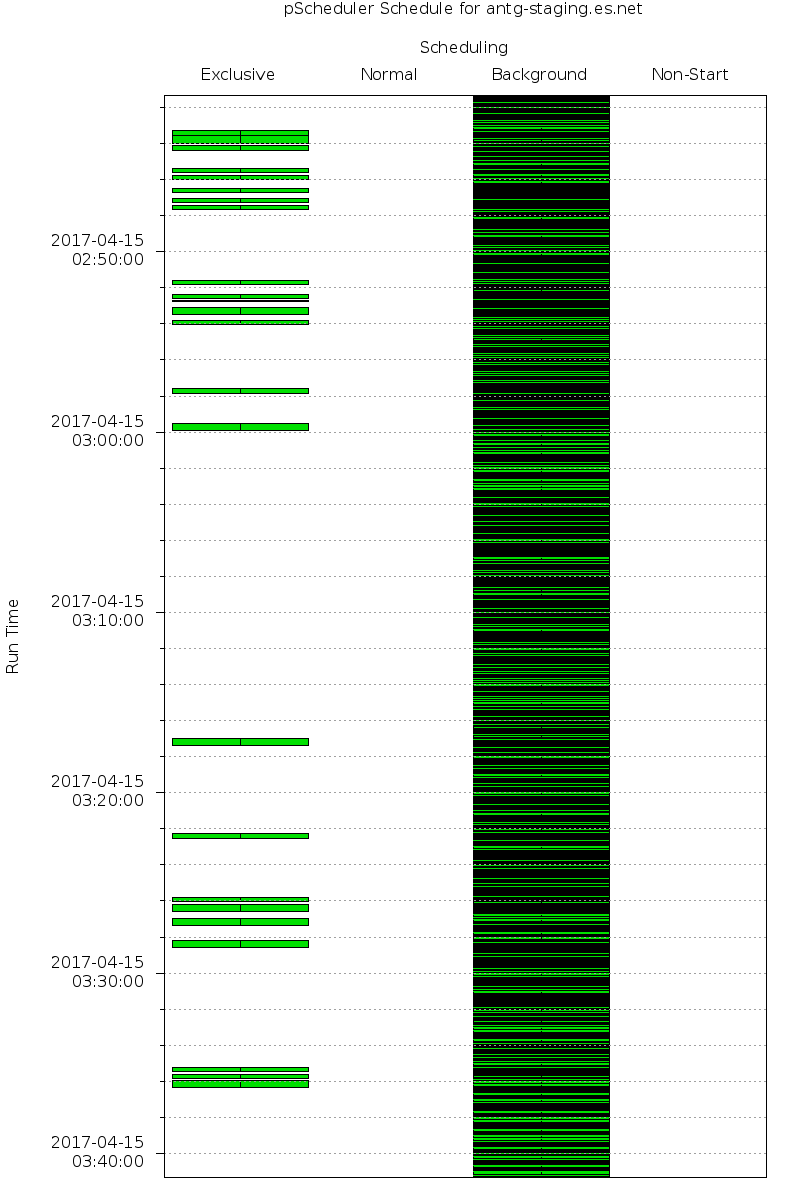
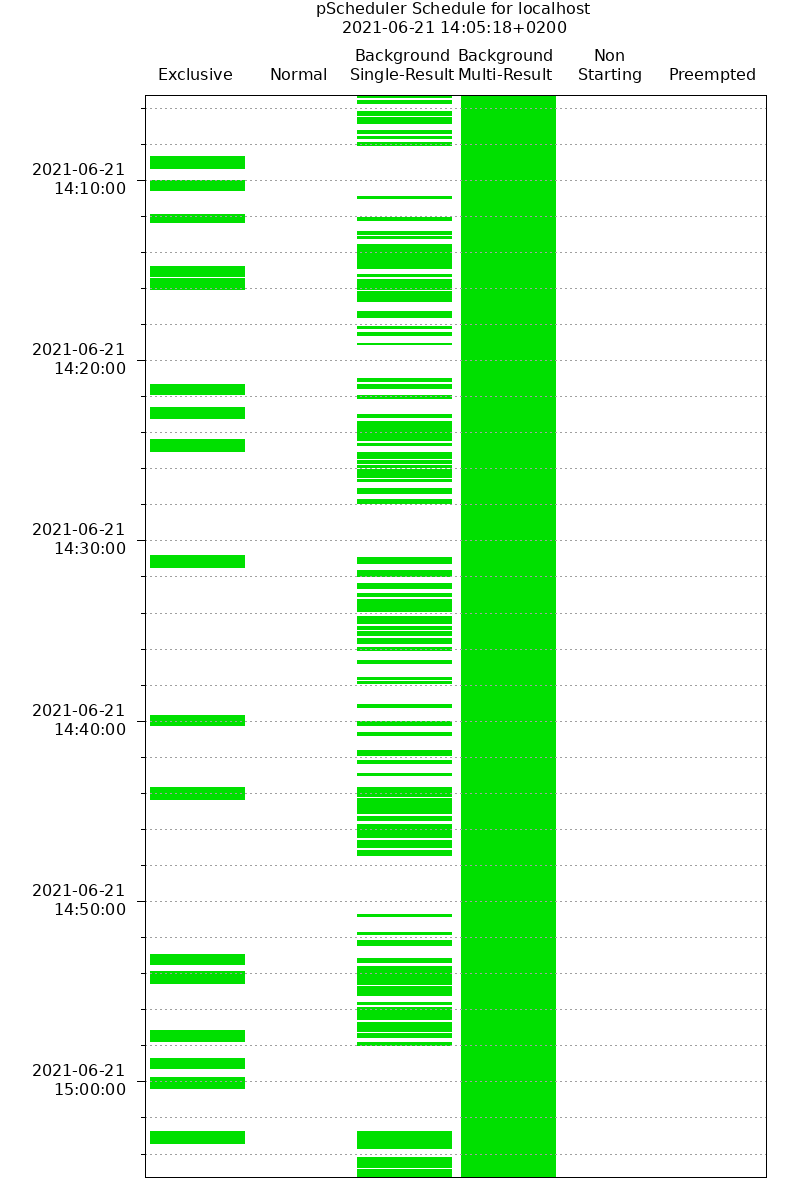
Closes #222 #211 #217
Updated list of run types in schedule, new schedule plot, adding s3throughput test type, correcting typos

diff --git a/pscheduler_client_schedule.rst b/pscheduler_client_schedule.rst
@@ -79,7 +79,7 @@ With one (delta) argument, the schedule between now and some point in the past o
     
     * One day in the future::
     
-        pscheduler schedule PT1D
+        pscheduler schedule P1D
         
 With two (start and end) arguments, the schedule within a range of times will be shown. Either argument can be a delta as described above (e.g. -P2D) or a ISO 8601 timestamp (e.g., 2016-09-04T12:34:56+0400). Examples:
 
@@ -124,11 +124,12 @@ You always redirect the output to a file and the program will return an error be
 
 The vertical axis is the time that the test ran or is scheduled to run. The green boxes are :term:`runs<run>` of tasks and their height indicates the time allotted for them on the schedule. Each run is grouped into one of five classifications listed at the top:
 
-    #. **Exclusive** - An example is a *throughput* task. If you have very little whitespace in this category then you may have difficulty finding a timeslot for new tests.
+    #. **Exclusive** - An example is a *throughput* task. If you have very little whitespace in this category then you may have difficulty finding a timeslot for new tests. These test can run in parallel only with background tests.
     #. **Normal** - An example is a task with a test type of *latency*.
-    #. **Background** - Example test types include *rtt* and *trace* or *clock*.
-    #. **Background-multi** - Example test type is *latencybg*. It is not uncommon to have this column look almost entirely solid if you have *latencybg* tasks since they run continuously.
-    #. **Non-Start** - These are runs that could not find a time-slot. A very important note, and common point of confusion, is that the time shown is the earliest possible time in the slot it was trying to schedule. This IS NOT the time when the scheduler tried to find a slot, failed and labelled it as a non-start. pScheduler uses a :term:`schedule horizon` so likely attempted to schedule the run 24 hours in advance. A large number of runs in this category may be the indication of a busy host where it is difficult for exclusive tasks to find a timeslot.
+    #. **Background Single-Result** - Background tests that produce single result. Example test types include *rtt* and *trace* or *clock*. These tests can run in parallel with anything else.
+    #. **Background Multi-Result** - Background tests that produce multiple (streaming) results. Example test type is *latencybg*. It is not uncommon to have this column look almost entirely solid if you have *latencybg* tasks since they run continuously. These tests can run in parallel with anything else.
+    #. **Non-Starting** - These are runs that could not find a time-slot. A very important note, and common point of confusion, is that the time shown is the earliest possible time in the slot it was trying to schedule. This IS NOT the time when the scheduler tried to find a slot, failed and labelled it as a non-start. pScheduler uses a :term:`schedule horizon` so likely attempted to schedule the run 24 hours in advance. A large number of runs in this category may be the indication of a busy host where it is difficult for exclusive tasks to find a timeslot.
+    #. **Preempted** - These runs were preempted by another with higher priority.
 	
 For more detailed information about test classifications see :ref:`pscheduler_ref_tests_tools-test_classifications`.
     
@@ -144,7 +145,7 @@ With one (delta) argument, the schedule between now and some point in the past o
     
     * One day in the future::
     
-        pscheduler plot-schedule PT1D
+        pscheduler plot-schedule P1D
         
 With two (start and end) arguments, the schedule within a range of times will be shown. Either argument can be a delta as described above (e.g. -P2D) or a ISO 8601 timestamp (e.g., 2016-09-04T12:34:56+0400). Examples:
 

diff --git a/pscheduler_ref_tests_tools.rst b/pscheduler_ref_tests_tools.rst
@@ -74,6 +74,11 @@ throughput
 :Description: A test to measure the observed speed of a data transfer and associated statistics between two endpoints
 :Tools: iperf3, iperf2, nuttcp
 
+s3throughput
+############
+:Description: A test to measure the throughput of S3 web service storage
+:Tools: s3-benchmark
+
 trace
 ############
 :Description: Trace the path between IP hosts
@@ -85,10 +90,12 @@ Test Classifications
 ======================
 Each test classified in one of four categories that determines what other tests can be run in parallel:
 
-    #. **Exclusive** - These are tests that cannot run at the same time as any other exclusive or normal test. An example is a *throughput* test. If you have very frequent tests in this category then you may have difficulty finding a timeslot for new tests.
-    #. **Normal** - These are tests that can run at the same time as other normal and background tests, but cannot run at the same time as exclusive tests. An example is a task with a test type of *latency*.
-    #. **Background** - These are tests that can be run in parallel with any other test including exclusive, normal and other background tests. Example test types include *rtt*, *trace*, *http*, *dns* or *clock*. Since these runs do not prevent other runs from executing though, they should not limit your ability to schedule new tests.
-    #. **Background-multi** - These are tests that can be run in parallel with any other test and produce multiple results that appear as separate runs. Example test type is *latencybg* that runs continuously.
+    #. **Exclusive** - An example is a *throughput* task. If you have very little whitespace in this category then you may have difficulty finding a timeslot for new tests. These test can run in parallel only with background tests.
+    #. **Normal** - An example is a task with a test type of *latency*.
+    #. **Background Single-Result** - Background tests that produce single result. Example test types include *rtt* and *trace* or *clock*. These tests can run in parallel with anything else.
+    #. **Background Multi-Result** - Background tests that produce multiple (streaming) results. Example test type is *latencybg*. It is not uncommon to have this column look almost entirely solid if you have *latencybg* tasks since they run continuously. These tests can run in parallel with anything else.
+    #. **Non-Starting** - These are runs that could not find a time-slot. A very important note, and common point of confusion, is that the time shown is the earliest possible time in the slot it was trying to schedule. This IS NOT the time when the scheduler tried to find a slot, failed and labelled it as a non-start. pScheduler uses a :term:`schedule horizon` so likely attempted to schedule the run 24 hours in advance. A large number of runs in this category may be the indication of a busy host where it is difficult for exclusive tasks to find a timeslot.
+    #. **Preempted** - These runs were preempted by another with higher priority.
 	
 You may visualize different types of tests using ``pscheduler plot-schedule`` command. See also :ref:`pscheduler_client_schedule-plot_schedule`.
 
